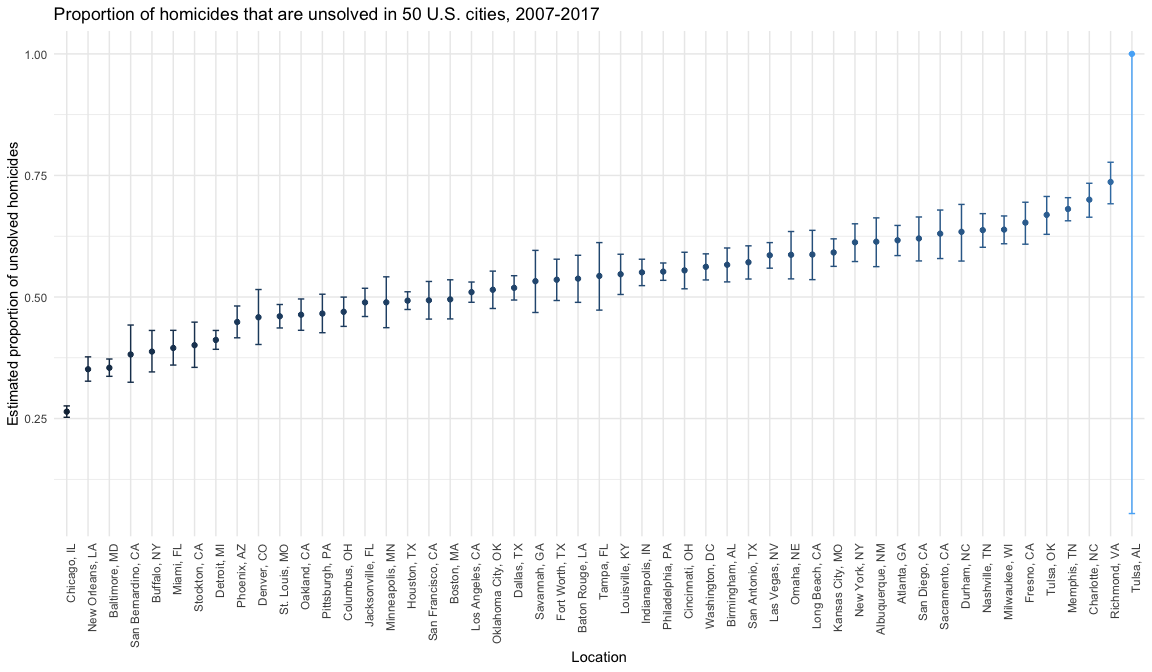
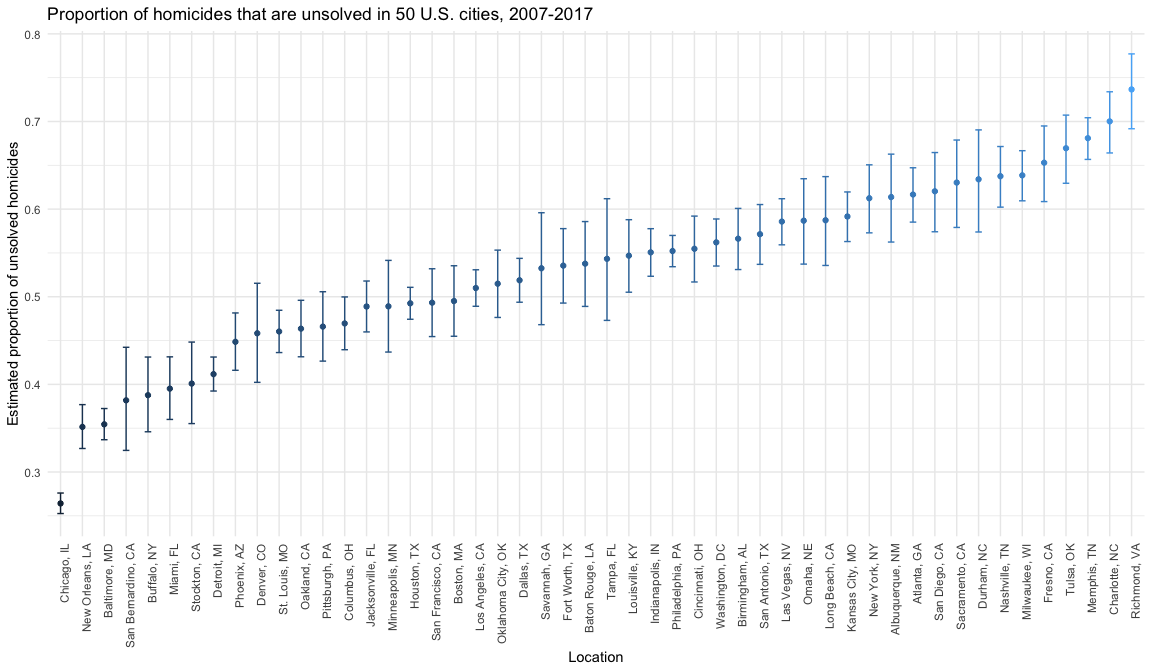
Part 2 fixing Tulsa AL observation

diff --git a/p8105_hw5_my2731.md b/p8105_hw5_my2731.md
@@ -46,6 +46,7 @@ total number of homicides and the number of unsolved homicides.
 homicide_summary = homicide_data %>% 
   mutate(
     state = str_to_upper(state),
+    state = ifelse(city == "Tulsa" & state == "AL", "OK", state),
     city_state = str_c(city, state, sep = ", "), 
     status = ifelse(
       disposition == "Closed without arrest" | disposition == "Open/No arrest", "Solved", "Unsolved")) %>% 
@@ -56,7 +57,7 @@ homicide_summary = homicide_data %>%
 homicide_summary
 ```
 
-    ## # A tibble: 51 × 3
+    ## # A tibble: 50 × 3
     ##    city_state      n_unsolved n_total
     ##    <chr>                <int>   <int>
     ##  1 Albuquerque, NM        232     378
@@ -69,7 +70,7 @@ homicide_summary
     ##  8 Charlotte, NC          481     687
     ##  9 Chicago, IL           1462    5535
     ## 10 Cincinnati, OH         385     694
-    ## # … with 41 more rows
+    ## # … with 40 more rows
 
 Next, for the city of Baltimore, MD, we will use the `prop.test`
 function to estimate the proportion of homicides that are unsolved and
@@ -117,7 +118,7 @@ unsolved_homicides = homicide_summary %>%
 unsolved_homicides
 ```
 
-    ## # A tibble: 51 × 6
+    ## # A tibble: 50 × 6
     ##    city_state      n_unsolved n_total estimate conf.low conf.high
     ##    <chr>                <int>   <int>    <dbl>    <dbl>     <dbl>
     ##  1 Albuquerque, NM        232     378    0.614    0.562     0.663
@@ -130,9 +131,9 @@ unsolved_homicides
     ##  8 Charlotte, NC          481     687    0.700    0.664     0.734
     ##  9 Chicago, IL           1462    5535    0.264    0.253     0.276
     ## 10 Cincinnati, OH         385     694    0.555    0.517     0.592
-    ## # … with 41 more rows
+    ## # … with 40 more rows
 
-The resulting `unsolved_homicides` dataframe contains 51 observations of
+The resulting `unsolved_homicides` dataframe contains 50 observations of
 6 variables, providing number of unsolved and total homicides, and the
 estimated proportion of unsolved homicides, along with their 95% CIs
 which come from mapping the `prop.test` function to all the cities.
@@ -200,16 +201,16 @@ sim_df
     ## # A tibble: 100 × 4
     ##    true_mean iterate estimate p.value
     ##        <dbl>   <int>    <dbl>   <dbl>
-    ##  1         0       1  -0.304  0.698  
-    ##  2         0       2  -1.51   0.0761 
-    ##  3         0       3   2.18   0.0278 
-    ##  4         0       4   0.123  0.885  
-    ##  5         0       5  -0.349  0.649  
-    ##  6         0       6  -0.209  0.803  
-    ##  7         0       7   2.93   0.00358
-    ##  8         0       8  -0.0882 0.932  
-    ##  9         0       9   0.582  0.546  
-    ## 10         0      10   1.62   0.0848 
+    ##  1         0       1  -0.856   0.415 
+    ##  2         0       2   0.0270  0.976 
+    ##  3         0       3   0.827   0.388 
+    ##  4         0       4   0.812   0.449 
+    ##  5         0       5  -0.540   0.558 
+    ##  6         0       6  -0.238   0.760 
+    ##  7         0       7   1.01    0.244 
+    ##  8         0       8   1.38    0.106 
+    ##  9         0       9  -1.99    0.0578
+    ## 10         0      10  -0.286   0.750 
     ## # … with 90 more rows
 
 The resulting dataset has 100 iterations of estimates for $\hat{\mu}$
@@ -240,16 +241,16 @@ power_df
     ## # A tibble: 600 × 5
     ##    true_mean iterate estimate p.value reject_h0        
     ##        <int>   <int>    <dbl>   <dbl> <chr>            
-    ##  1         1       1    0.583   0.675 Null not rejected
-    ##  2         1       2    1.53    0.507 Null not rejected
-    ##  3         1       3    1.44    0.610 Null not rejected
-    ##  4         1       4    2.19    0.183 Null not rejected
-    ##  5         1       5    1.31    0.693 Null not rejected
-    ##  6         1       6    1.83    0.382 Null not rejected
-    ##  7         1       7    0.444   0.535 Null not rejected
-    ##  8         1       8    0.500   0.655 Null not rejected
-    ##  9         1       9   -0.164   0.212 Null not rejected
-    ## 10         1      10   -0.168   0.227 Null not rejected
+    ##  1         1       1   0.0203  0.186  Null not rejected
+    ##  2         1       2   0.876   0.910  Null not rejected
+    ##  3         1       3   2.34    0.0995 Null not rejected
+    ##  4         1       4   1.51    0.564  Null not rejected
+    ##  5         1       5   3.22    0.0231 Null rejected    
+    ##  6         1       6   1.49    0.534  Null not rejected
+    ##  7         1       7   0.657   0.758  Null not rejected
+    ##  8         1       8   0.707   0.793  Null not rejected
+    ##  9         1       9   0.857   0.892  Null not rejected
+    ## 10         1      10   1.53    0.580  Null not rejected
     ## # … with 590 more rows
 
 The resulting dataset has 600 iterations for true mean values ranging
